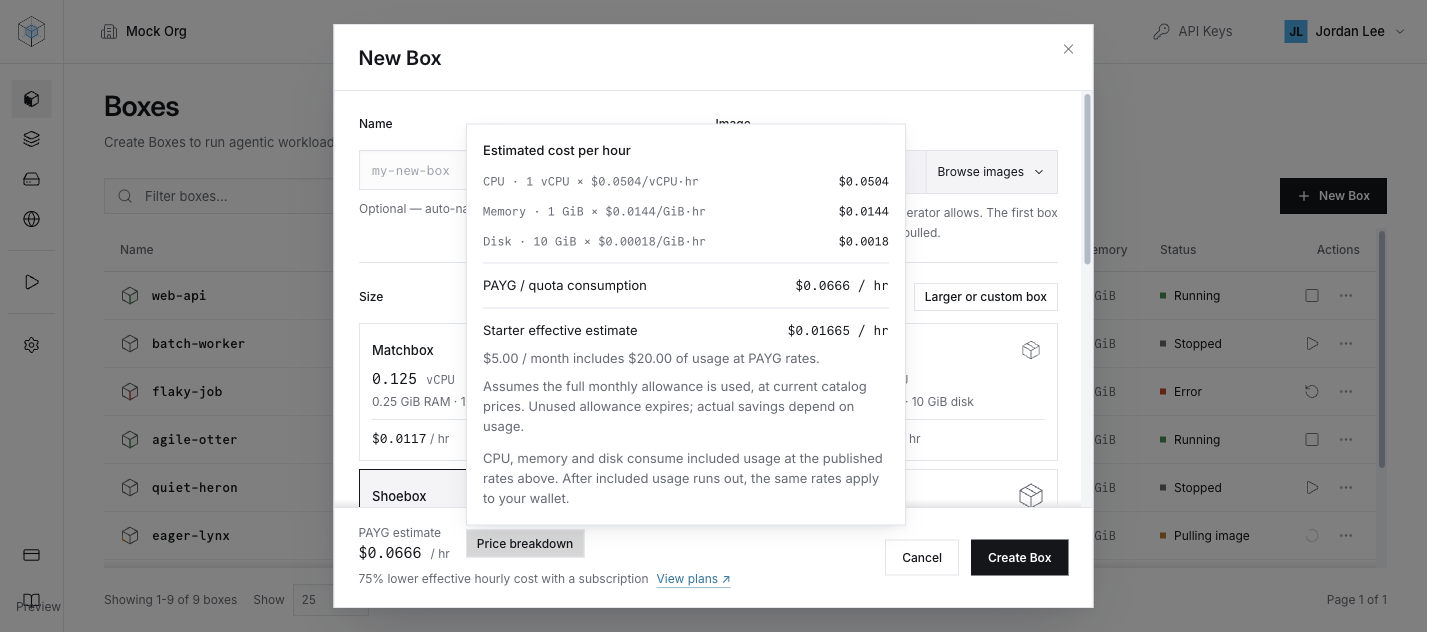
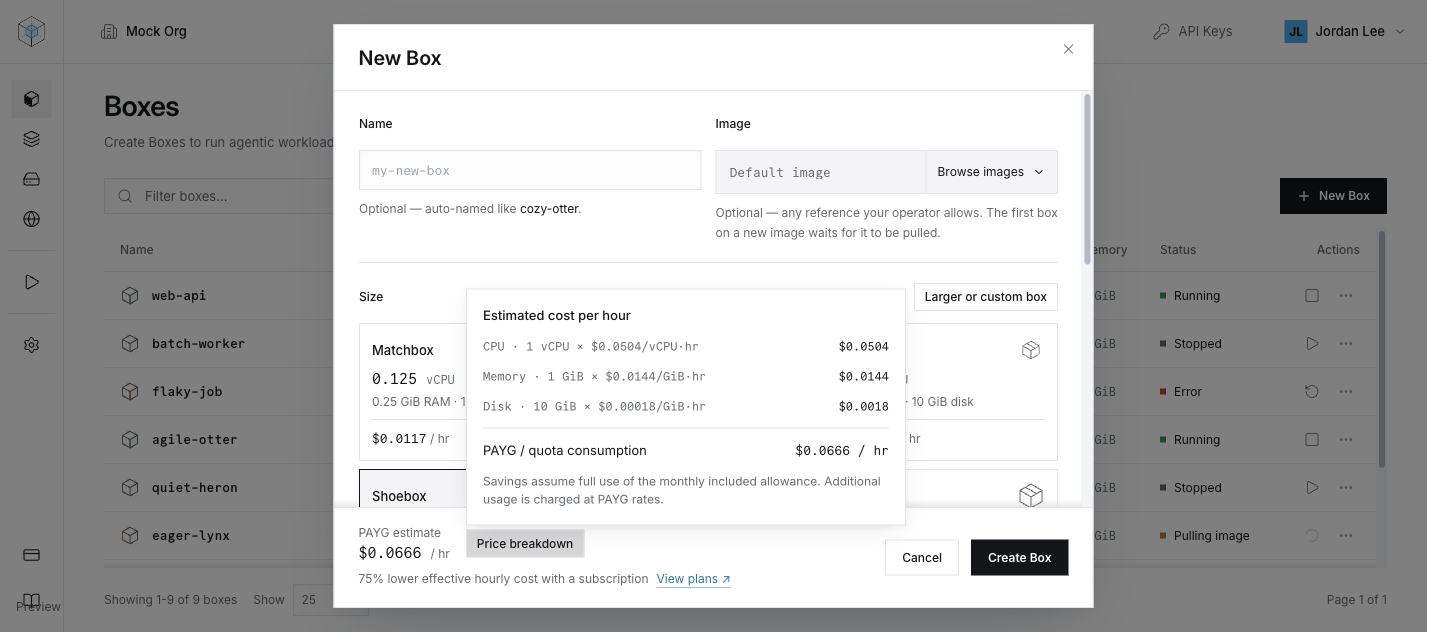
fix(dashboard): simplify subscription savings breakdown

diff --git a/apps/dashboard/src/components/Box/BoxPriceSummary.tsx b/apps/dashboard/src/components/Box/BoxPriceSummary.tsx
@@ -6,7 +6,6 @@ import { usePlansQuery } from '@/hooks/queries/usePlansQuery'
 import { useSelectedOrganization } from '@/hooks/useSelectedOrganization'
 import { boxSubscriptionValue, subscriptionValue } from '@/lib/subscription-value'
 import { formatPriceCents, type BoxHourlyPrice, type BoxSpec } from '@/lib/box-price'
-import { PLAN_PRESENTATION, planTierIndex } from '@/components/billing/planBenefits'
 import { RoutePath } from '@/enums/RoutePath'
 
 export function BoxPriceSummary({
@@ -33,11 +32,8 @@ export function BoxPriceSummary({
     !subscription.isError
   const comparison = ready ? boxSubscriptionValue(catalog.data, subscription.data, spec, quote) : undefined
   const value = subscriptionValue(comparison?.plan)
-  const effective = value ? quote.totalCents * value.costRatio : undefined
-  const active = comparison?.active && effective != null
+  const active = comparison?.active && value != null
   const savingsPercent = value ? Math.floor((1 - value.costRatio) * 10000) / 100 : undefined
-  const name =
-    comparison?.plan && (PLAN_PRESENTATION[planTierIndex(comparison.plan.name)]?.name ?? comparison.plan.name)
   const price = (cents: number) => formatPriceCents(cents, 8)
   return (
     <div className="min-w-0 space-y-1">
@@ -77,30 +73,15 @@ export function BoxPriceSummary({
               <span>PAYG / quota consumption</span>
               <span className="font-mono">{price(quote.totalCents)} / hr</span>
             </div>
-            {value && comparison?.plan && (
-              <div className="mt-3 space-y-2 border-t border-border pt-3 text-body">
-                <div className="flex flex-wrap justify-between gap-2">
-                  <span>{name} effective estimate</span>
-                  <span className="font-mono">{price(effective!)} / hr</span>
-                </div>
-                <p className="text-muted-foreground">
-                  {formatPriceCents(comparison.plan.priceMonthlyCents!)} / month includes{' '}
-                  {formatPriceCents(comparison.plan.includedQuotaCents!)} of usage at PAYG rates.
-                </p>
-                <p className="text-muted-foreground">
-                  Assumes the full monthly allowance is used, at current catalog prices. Unused allowance expires;
-                  actual savings depend on usage.
-                </p>
-              </div>
+            {value && (
+              <p className="mt-3 text-meta text-muted-foreground">
+                Savings assume full use of the monthly included allowance. Additional usage is charged at PAYG rates.
+              </p>
             )}
-            <p className="mt-3 text-body text-muted-foreground">
-              CPU, memory and disk consume included usage at the published rates above. After included usage runs out,
-              the same rates apply to your wallet.
-            </p>
           </PopoverContent>
         </Popover>
       </div>
-      {value && effective != null && (
+      {value && (
         <p className="flex flex-wrap items-baseline gap-x-2 gap-y-1 text-meta text-muted-foreground">
           <span>{savingsPercent}% lower effective hourly cost with a subscription</span>
           {!active && (

diff --git a/docs/contributing/investigations/2026-11-23-create-box-subscription-value.md b/docs/contributing/investigations/2026-11-23-create-box-subscription-value.md
@@ -18,7 +18,7 @@ Keep one primary create action and the existing price breakdown popover.
 For PAYG, retain the full resource estimate and add one muted catalog comparison for configurations within verified published plan limits: `75% lower effective hourly cost with a subscription · View plans ↗` for the documented $5/$20 example and a $0.0666/h configuration.
 The Plan API does not expose per-plan resource limits. Do not select the cheapest plan and imply it supports an arbitrary custom Box; omit its hourly offer when eligibility is unverified.
 For every user, keep the PAYG estimate primary. A matching active paid plan with sufficient quota gets the same secondary percentage-saving explanation.
-Show the percentage reduction in the muted summary line; calculate it from the catalog ratio. Keep the effective dollar estimate in Price breakdown.
+Show the percentage reduction in the muted summary line; calculate it from the catalog ratio. Keep only a concise full-allowance assumption and PAYG overage explanation in Price breakdown; omit plan-specific monthly pricing and effective dollar estimates.
 State that quota is consumed at the published rate, then ordinary wallet funds pay for usage at that same rate.
 
 Use a real link opening Billing Plans in a new tab, explicitly identified as such, so the mounted creation draft survives unchanged.

diff --git a/apps/dashboard/README.md b/apps/dashboard/README.md
@@ -39,8 +39,8 @@ subscription included usage. The published **PAYG estimate** stays primary for a
 users, including subscribers. A muted supplementary line expresses the percentage
 lower effective hourly cost within included usage (75% for a fourfold quota ratio).
 The summary says "with a subscription", without implying the benefit is exclusive
-to Starter. The applicable plan, allowance conditions and effective dollar estimate
-remain available in Price breakdown.
+to Starter. Price breakdown keeps a concise allowance assumption and PAYG overage explanation,
+without repeating plan-specific monthly pricing or an effective dollar estimate.
 The ratio is the catalog monthly price divided by included usage value, shared with
 Billing Plans; it never uses the wallet purchase multiplier.
 
